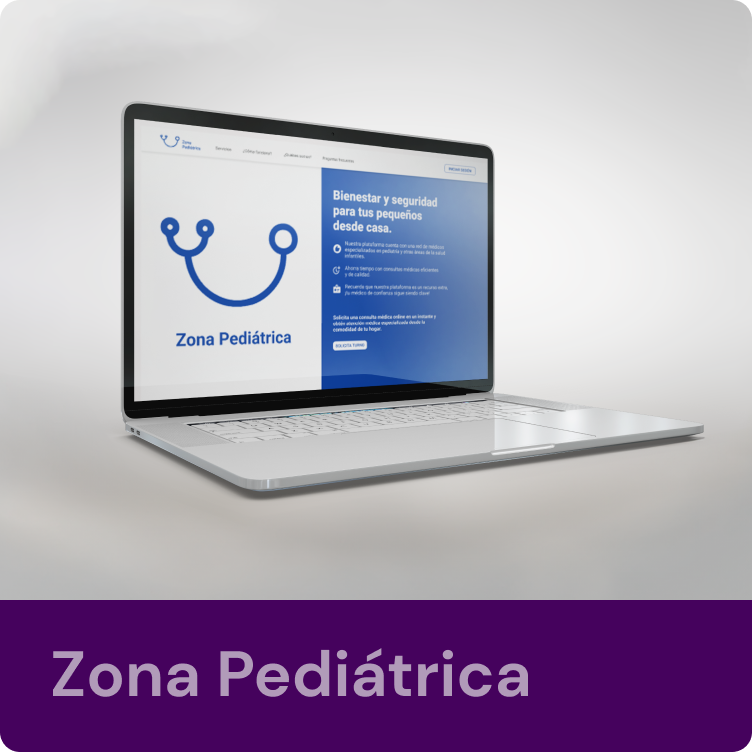
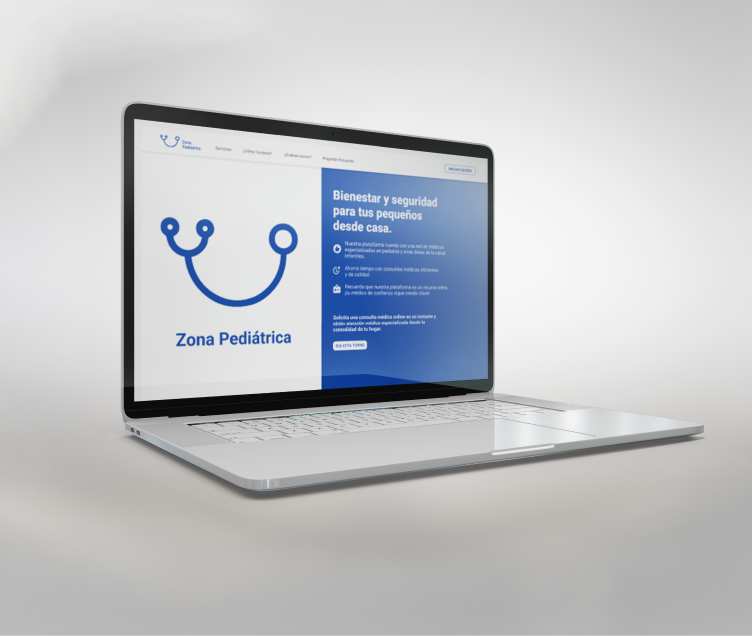
casos de exito modificados

diff --git a/src/config/config.ts b/src/config/config.ts
@@ -167,38 +167,47 @@ export const services : Service[] = [
 export const SuccessStories: SuccessStory[] = [
   {
     number: "01",
-    src: "/successStoryExample.png"
+    src: "/successStoryExample.png",
+    title: "Zona Pediátrica"
   },
   {
     number: "02",
-    src: "/successStoryExample.png"
+    src: "/successStoryExample.png",
+    title: "Zona Pediátrica"
   },
   {
     number: "03",
-    src: "/successStoryExample.png"
+    src: "/successStoryExample.png",
+    title: "Zona Pediátrica"
   },
   {
     number: "04",
-    src: "/successStoryExample.png"
+    src: "/successStoryExample.png",
+    title: "Zona Pediátrica"
   },
   {
     number: "05",
-    src: "/successStoryExample.png"
+    src: "/successStoryExample.png",
+    title: "Zona Pediátrica"
   },
   {
     number: "06",
-    src: "/successStoryExample.png"
+    src: "/successStoryExample.png",
+    title: "Zona Pediátrica"
   },
   {
     number: "07",
-    src: "/successStoryExample.png"
+    src: "/successStoryExample.png",
+    title: "Zona Pediátrica"
   },
   {
     number: "08",
-    src: "/successStoryExample.png"
+    src: "/successStoryExample.png",
+    title: "Zona Pediátrica"
   },
   {
     number: "09",
-    src: "/successStoryExample.png"
+    src: "/successStoryExample.png",
+    title: "Zona Pediátrica"
   }
 ]

diff --git a/src/components/CasosDeExitoCard/index.tsx b/src/components/CasosDeExitoCard/index.tsx
@@ -1,9 +1,9 @@
 import { SuccessStory } from "@/datamodels/models"
 import Image from "next/image"
 
-const SuccessStoryCard: React.FC<SuccessStory> = ({ src, number }) => {
+const SuccessStoryCard: React.FC<SuccessStory> = ({ src, number, title }) => {
     return (
-      <div className="rounded-md bg-merli-purple w-full h-full overflow-hidden">
+      <div className="rounded-md bg-merli-purple w-full h-full overflow-hidden flex flex-col">
         <Image 
           className="object-cover w-full h-full" 
           src={src} 
@@ -11,6 +11,9 @@ const SuccessStoryCard: React.FC<SuccessStory> = ({ src, number }) => {
           height={376} 
           alt={number} 
         />
+        <div className="bg-[#45025D] w-[393px] h-[78px] brightness-50 hover:brightness-150 transition duration-300">
+          <h4 className="text-white font-semibold flex justify-start p-3 brightness-50 hover:brightness-150 text-[25px]  transition duration-300">{title}</h4>
+        </div>
       </div>
     )
   }

diff --git a/src/components/CasosDeExitos/index.tsx b/src/components/CasosDeExitos/index.tsx
@@ -25,6 +25,7 @@ export default function CasosDeExitos() {
                         key={story .number}
                         number={story .number}
                         src={story .src}
+                        title={story.title}
                       />)
                 }
         </div>

diff --git a/src/app/[locale]/page.tsx b/src/app/[locale]/page.tsx
@@ -24,7 +24,7 @@ export default function Home() {
         <Services />
       {/*  <Processes/> */}
        </div>
-       <Enterprises />
+       
        <CasosDeExitos/>
        <div className='px-10 md:px-14 md:mb-8 md:mt-2 flex flex-col gap-24 container mx-auto'>
         <Contact /> 

diff --git a/src/datamodels/models.ts b/src/datamodels/models.ts
@@ -10,6 +10,7 @@ export type Process = {
 export type SuccessStory = {
   number: string
   src: string
+  title:string
 }
 
 export type Enterprise = {
